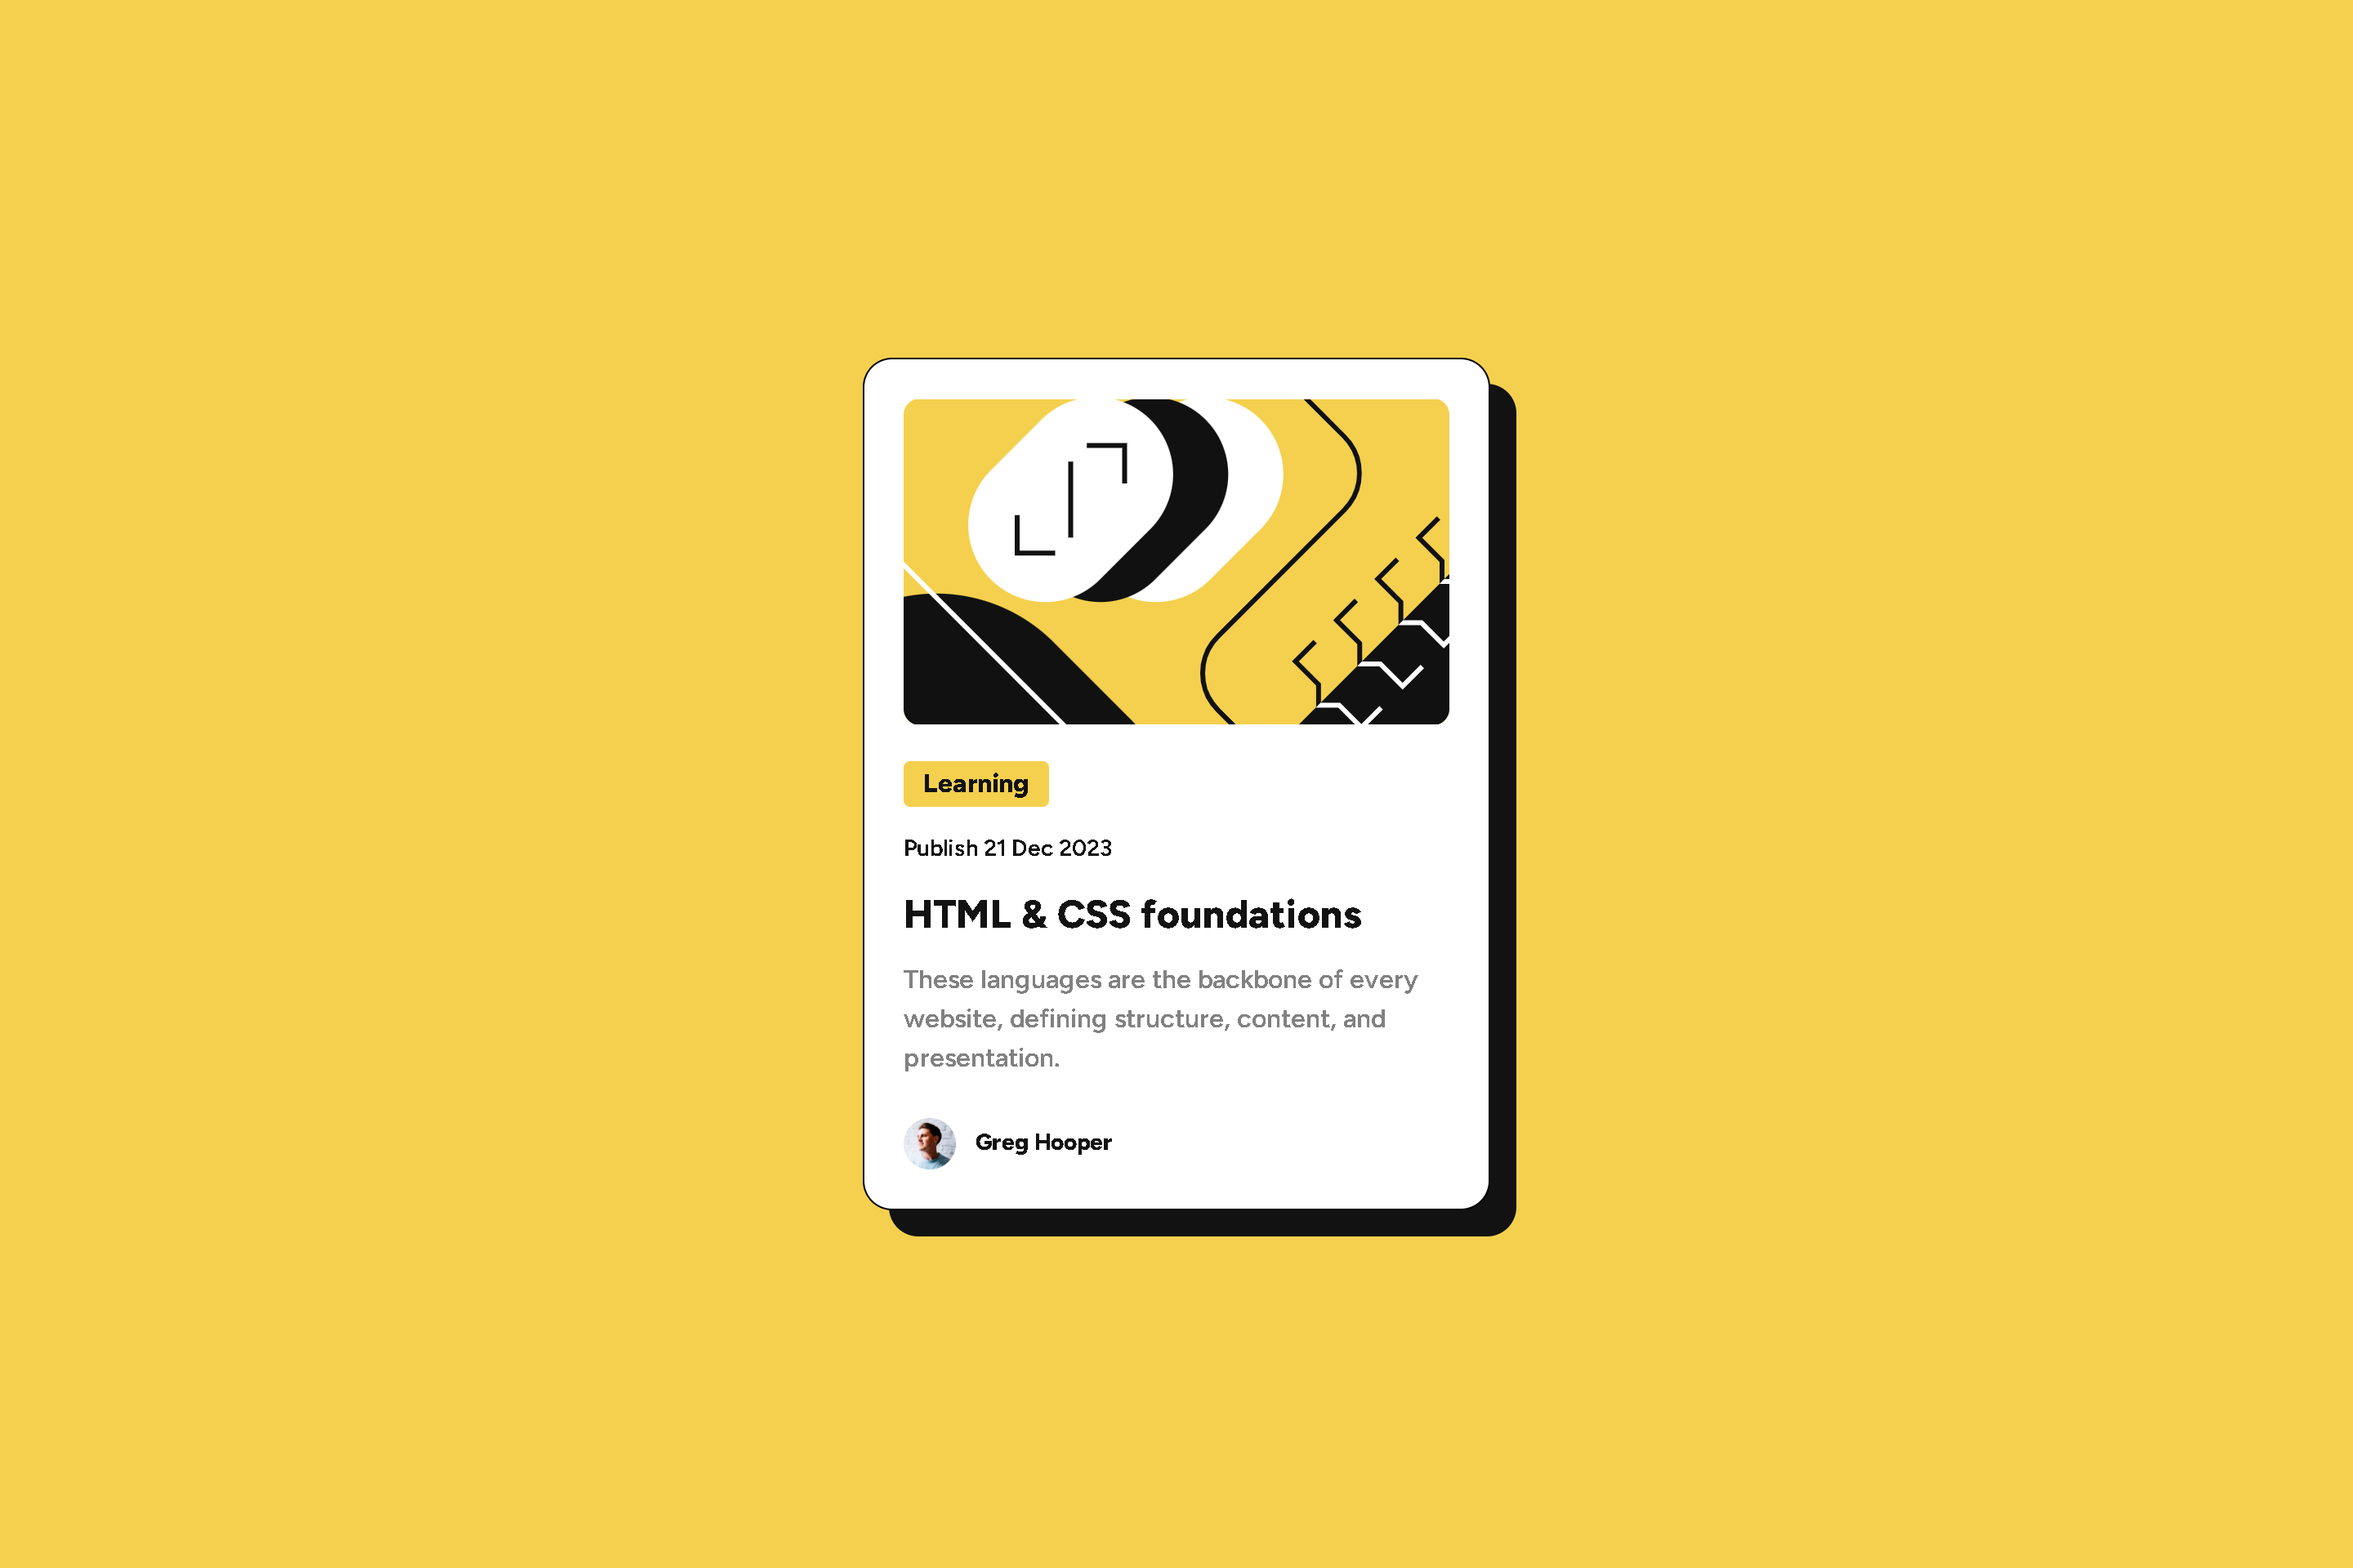
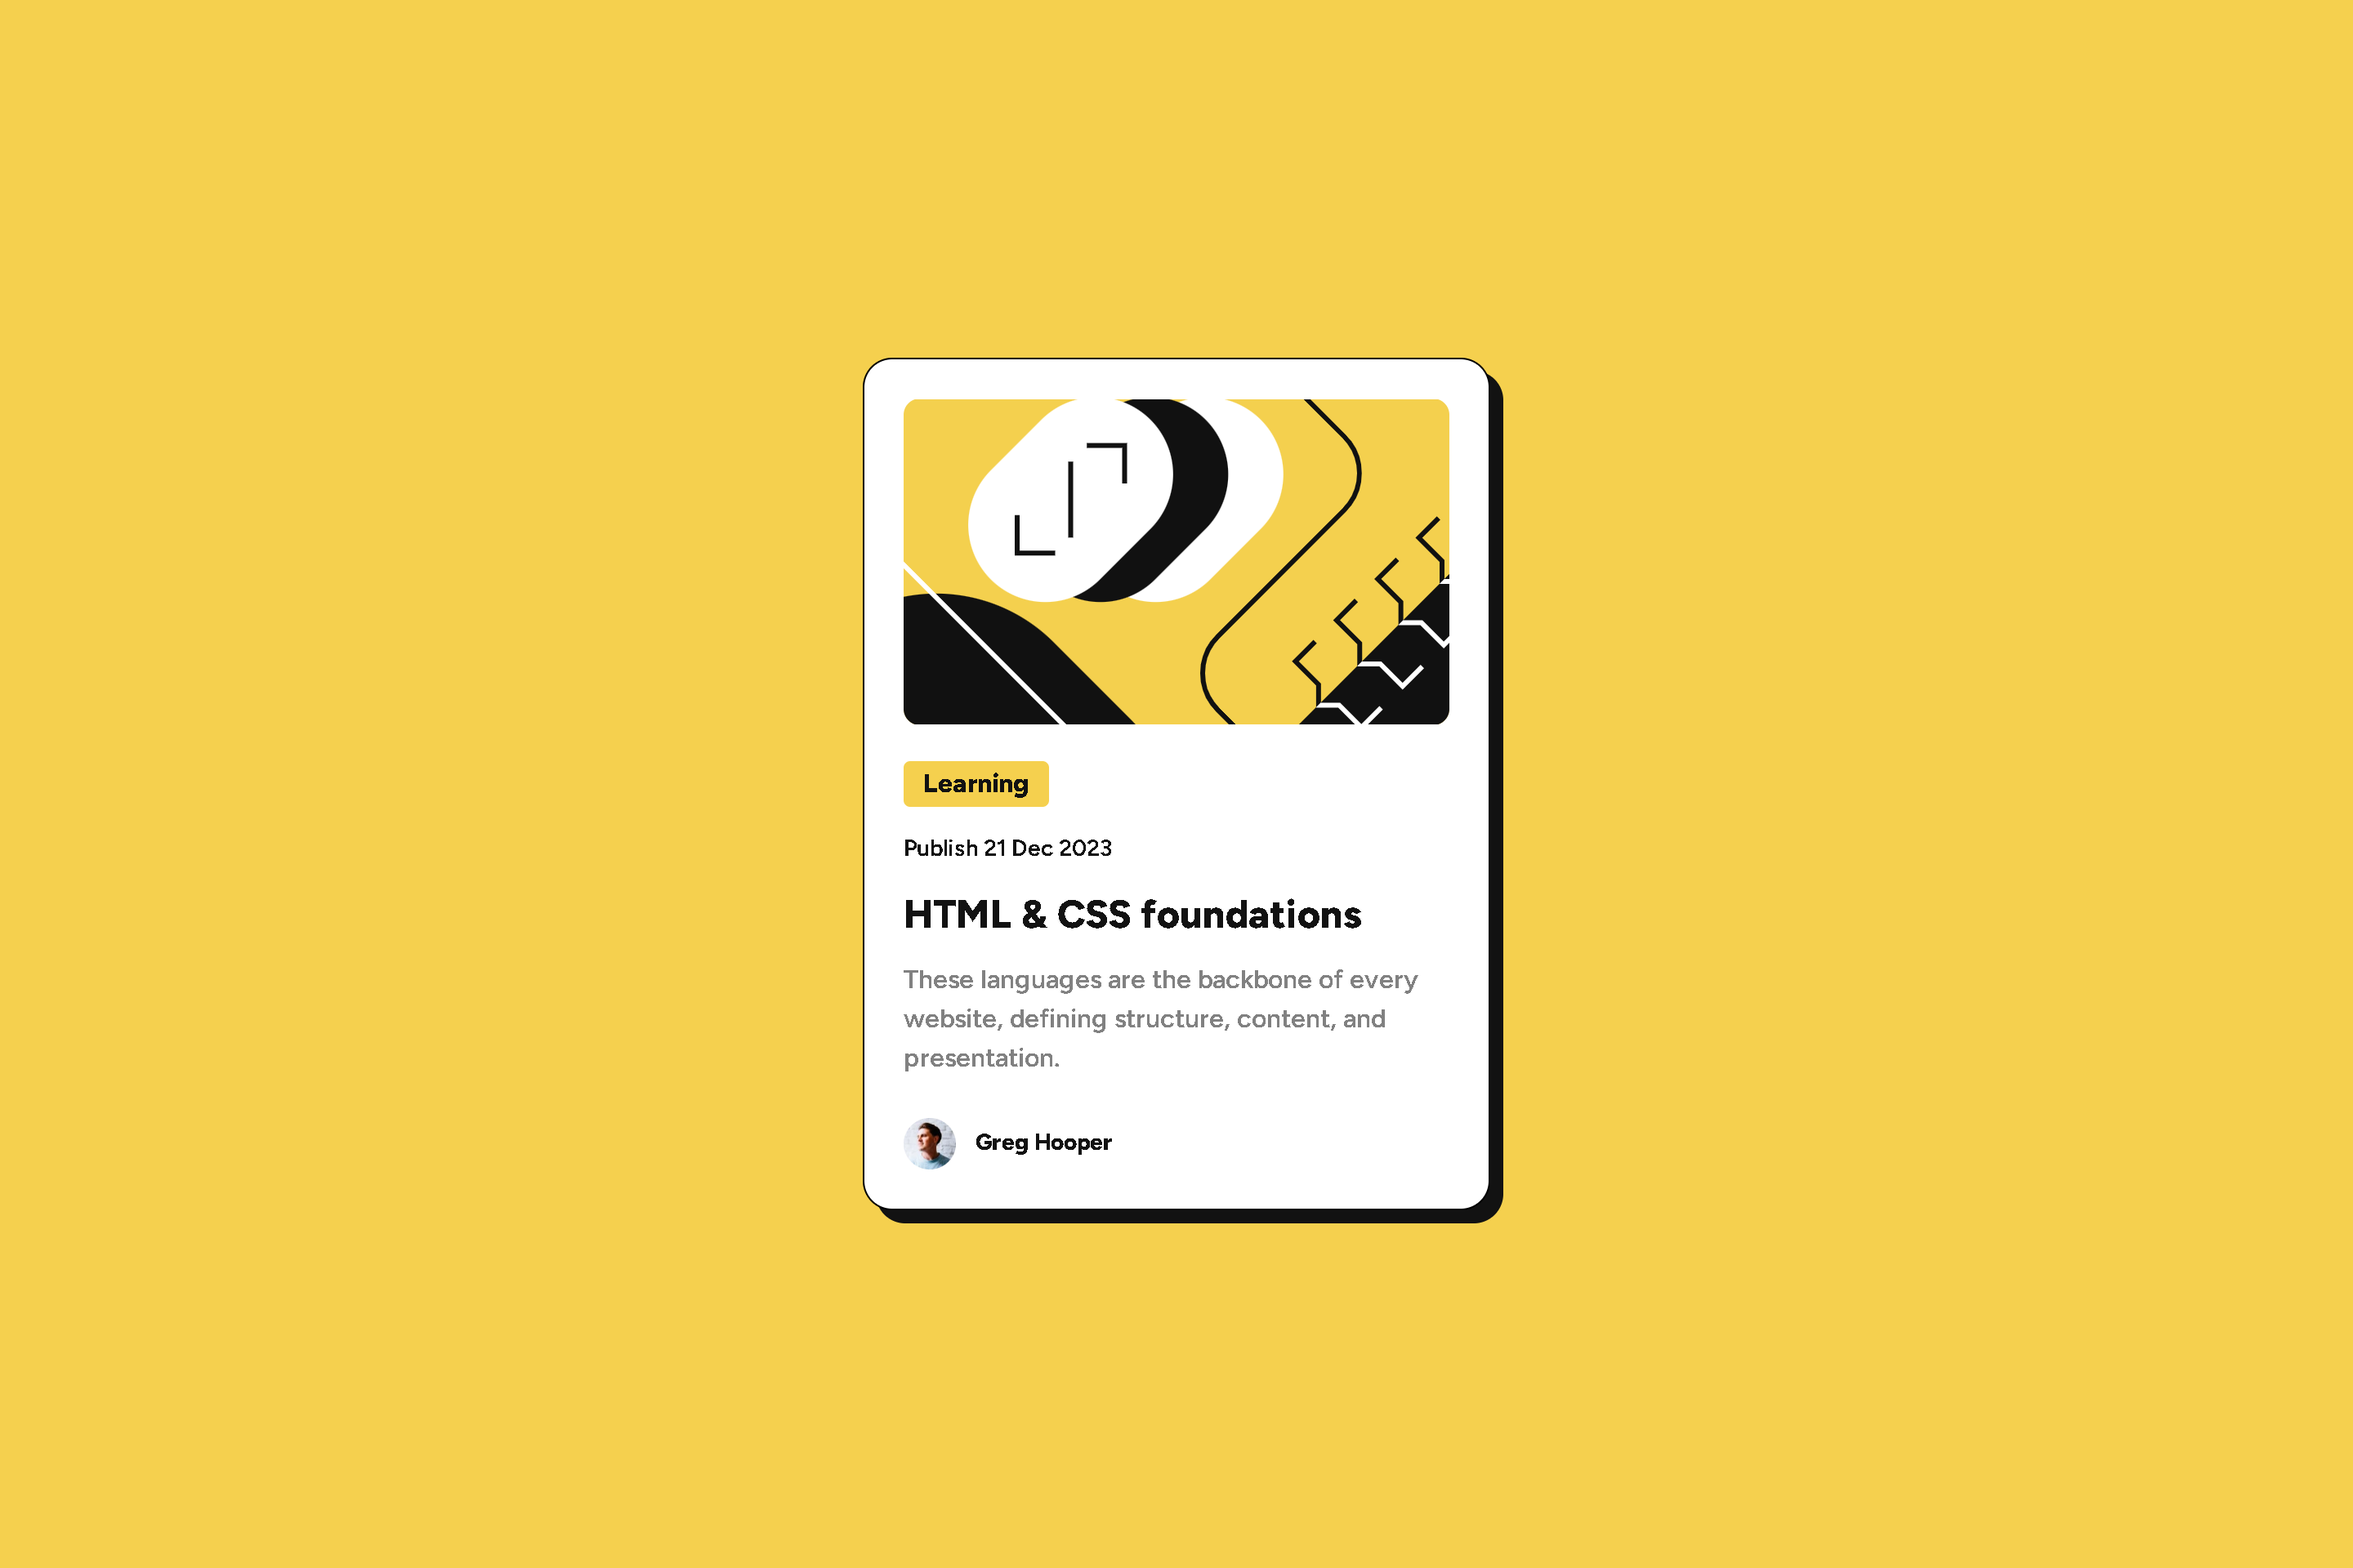
Update Screenshot

Changed region(s): [[0.375, 0.25, 0.6562, 0.8125]]

diff --git a/style.css b/style.css
@@ -79,7 +79,7 @@ body {
   padding: 1.5rem;
   border: 1px solid #000;
   background: #fff;
-  box-shadow: 16px 16px 0px 0px #121212;
+  box-shadow: 8px 8px 0px 0px #121212;
   display: flex;
   flex-direction: column;
   gap: 1.375rem;
@@ -100,7 +100,6 @@ body {
 
   .card {
     max-width: 20.438rem;
-    box-shadow: 8px 8px 0px 0px #121212;
   }
 
   .button {

diff --git a/README.md b/README.md
@@ -4,7 +4,7 @@
 
 <div align="center">
   <h3>
-    <a href="#" color="white" target="_blank" >
+    <a href="https://nasrulkhakim-blog-preview-card.netlify.app/" color="white" target="_blank" >
       Live
     </a>
     <span> | </span>
@@ -43,7 +43,6 @@ Users should be able to :
 
 ### Deployment
 
-- GitHub Pages
 - Netlify
 
 ### Development
@@ -62,7 +61,7 @@ It’s quite challenging learning to program as an adult, since I have business 
 
 For those of you alike, lets do this together. I’m open to any discussion especially things related to programming or technology in general.
 
-Check out my other repos, and feel free to give me some feedback, that’s be really helpful for us.
+Check out my other repos, and feel free to give me some feedback, that’d be really helpful for us.
 
 You can find me here :
 
